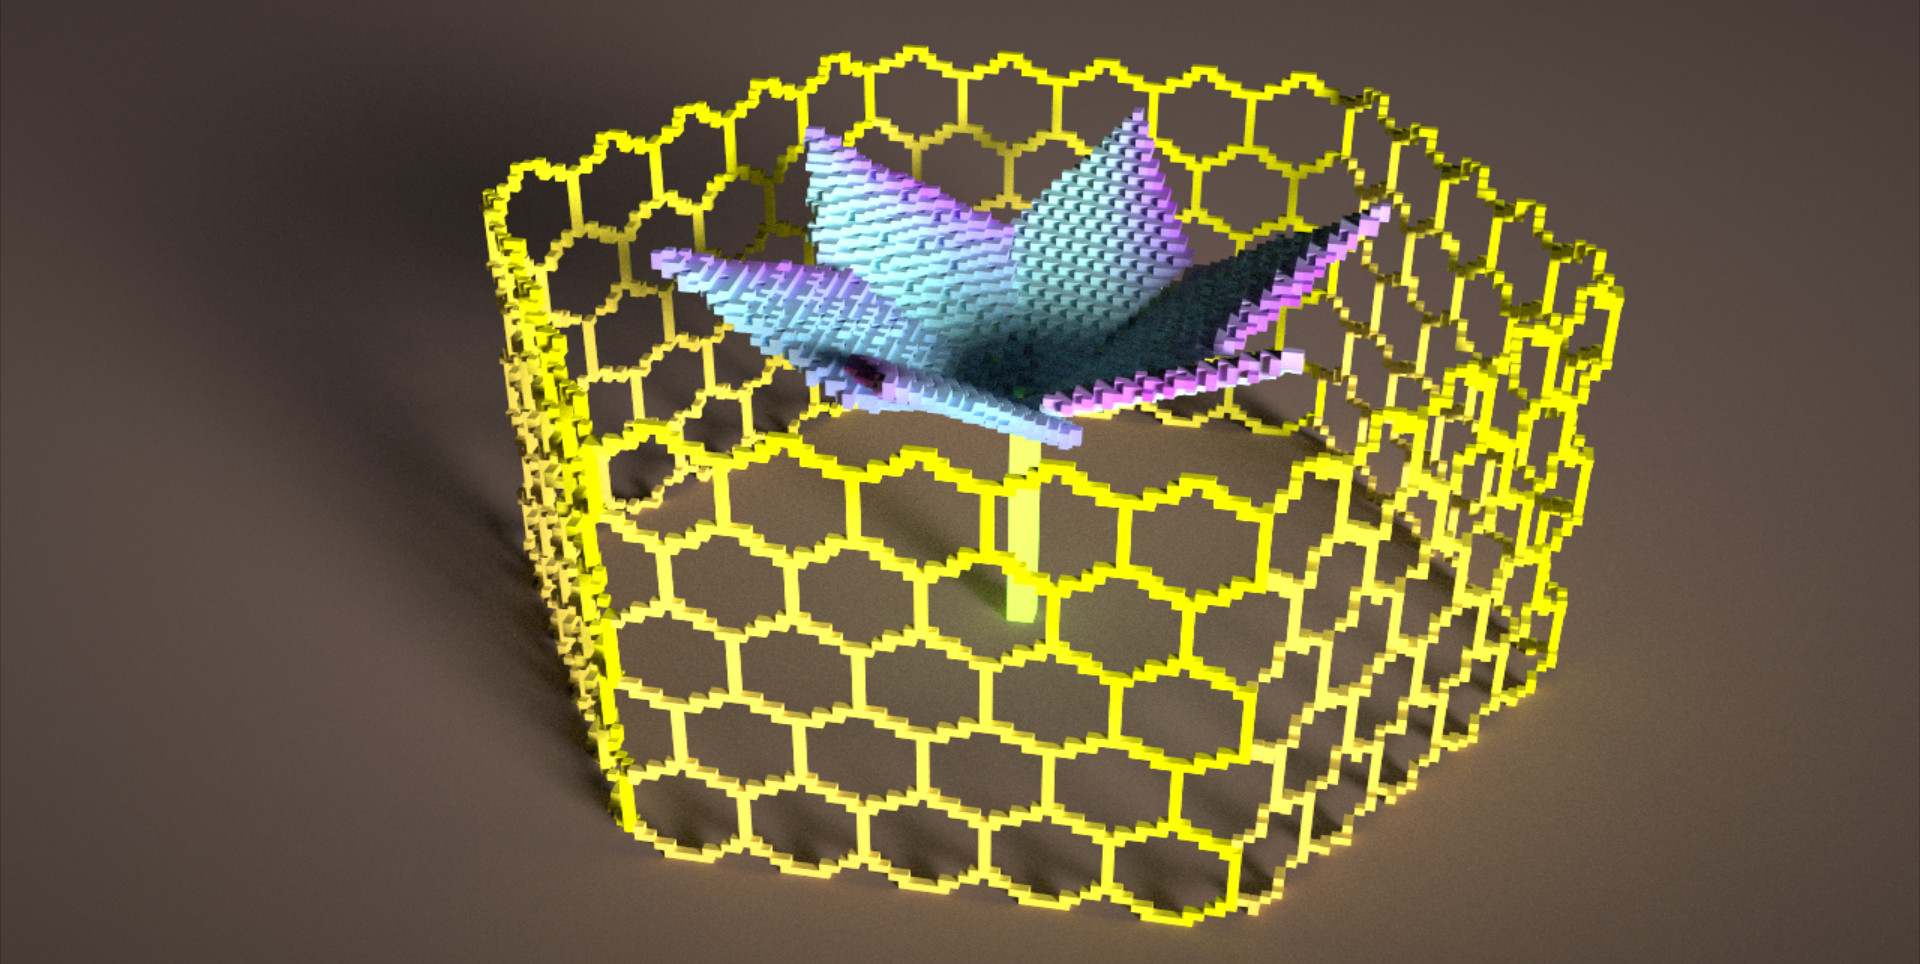
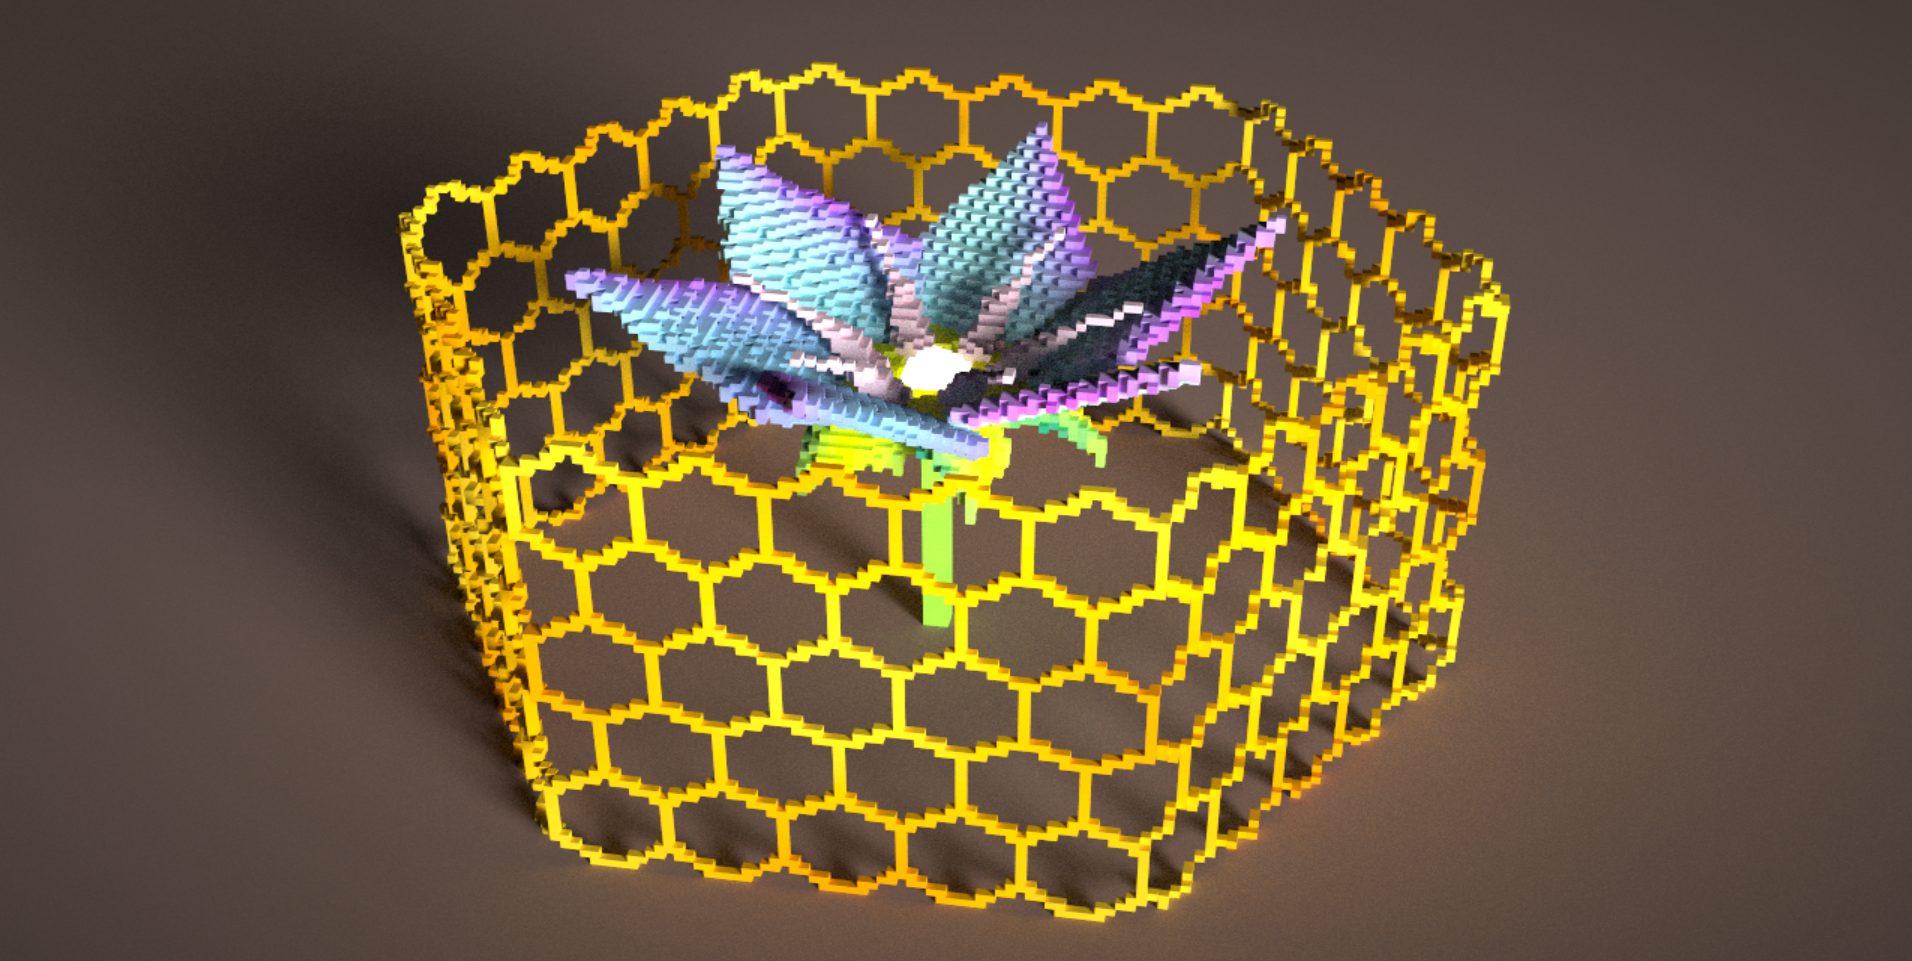
Add files via upload

diff --git a/main.py b/main.py
@@ -29,14 +29,14 @@ def initialize_voxels():
                 (abs(X/sqrt3-Y/sqrt3)>line
                  or sqrt3*X+sqrt3*Y<2*side/sqrt3
                  or sqrt3*X+sqrt3*Y>4*side/sqrt3)):
-            col=vec3(255, 202, 40)/256*ti.cos((i**2+j**2)/2000) +\
-            vec3(255, 255, 0)/256*(1 - ti.cos((i**2+j**2)/2000))
+            col=vec3(255, 193, 7)/256*ti.cos(i*6.28/61)*ti.cos(j*6.28/56) +\
+            vec3(255, 152, 0)/256*(1 - ti.cos(i*6.28/61)*ti.cos(j*6.28/56))
             scene.set_voxel(vec3(i-30,j-64,52),1,col)
             scene.set_voxel(vec3(i-30,j-64,-52),1,col)
             scene.set_voxel(vec3(i/2+30,j-64,52-i/2*sqrt3),1,col)
             scene.set_voxel(vec3(i/2+30,j-64,-52+i/2*sqrt3),1,col)
             scene.set_voxel(vec3(i/2-60,j-64,-i/2*sqrt3),1,col)
-            scene.set_voxel(vec3(i / 2 - 60, j-64, i / 2 * sqrt3), 1, col)
+            scene.set_voxel(vec3(i / 2 - 60, j-64, i / 2 * sqrt3), 1, col)#巢
     for i,j,k in ti.ndrange(80,80,40):
         I,J,K=i-40,j-40,k
         if abs(-sqrt3*I+2*sqrt3*J-6*K)<6\
@@ -45,10 +45,20 @@ def initialize_voxels():
                     scene.set_voxel(vec3(I*ti.cos(n*3.14/3)-J*ti.sin(n*3.14/3),
                                          K-34,I*ti.sin(n*3.14/3)+J*ti.cos(n*3.14/3)),1,
                                     vec3(100,181,246)/256*(n/2+3)*ti.cos(I*J/160)/3+
-                                    vec3(103,58,183)/256*(n/2+3)*(1-ti.cos(I*J/160))/3
-                                    )
+                                    vec3(103,58,183)/256*(n/2+3)*(1-ti.cos(I*J/160))/3)#花瓣
+                    scene.set_voxel(vec3(0.5*I*ti.cos((n+0.5)*3.14/3)-0.5*J*ti.sin((n+0.5)*3.14/3),
+                                         K-34-(I**2+J**2)/60,0.5*I*ti.sin((n+0.5)*3.14/3)+0.5*J*ti.cos((n+0.5)*3.14/3)),1,
+                                    vec3(198,255,0)/256*(n/2+3)*ti.cos(I*J/160)/3+
+                                    vec3(51,105,30)/256*(n/2+3)*(1-ti.cos(I*J/160))/3)#花萼
+        if K<25-10*ti.sqrt(I**2+J**2):
+            for n in range(6):
+                scene.set_voxel(vec3(I,K/2-28,J)+vec3((K**2/16+20)/20*8*ti.cos((n+1)*3.14/3),0,
+                            (K**2/16+20)/20*8*ti.sin((n+1)*3.14/3))
+                            ,1,vec3(248,187,208)/256)#花蕊
+        if K<4-ti.sqrt(I**2+J**2):
+            scene.set_voxel(vec3(I,K-27,J),2,vec3(1.))
         if abs(I**2+J**2)<4 and K<30:
-            scene.set_voxel(vec3(I,K-64,J),2,vec3(100,221,23)/256)
+            scene.set_voxel(vec3(I,K-64,J),1,vec3(100,221,23)/256)#茎
 
 initialize_voxels()
 
